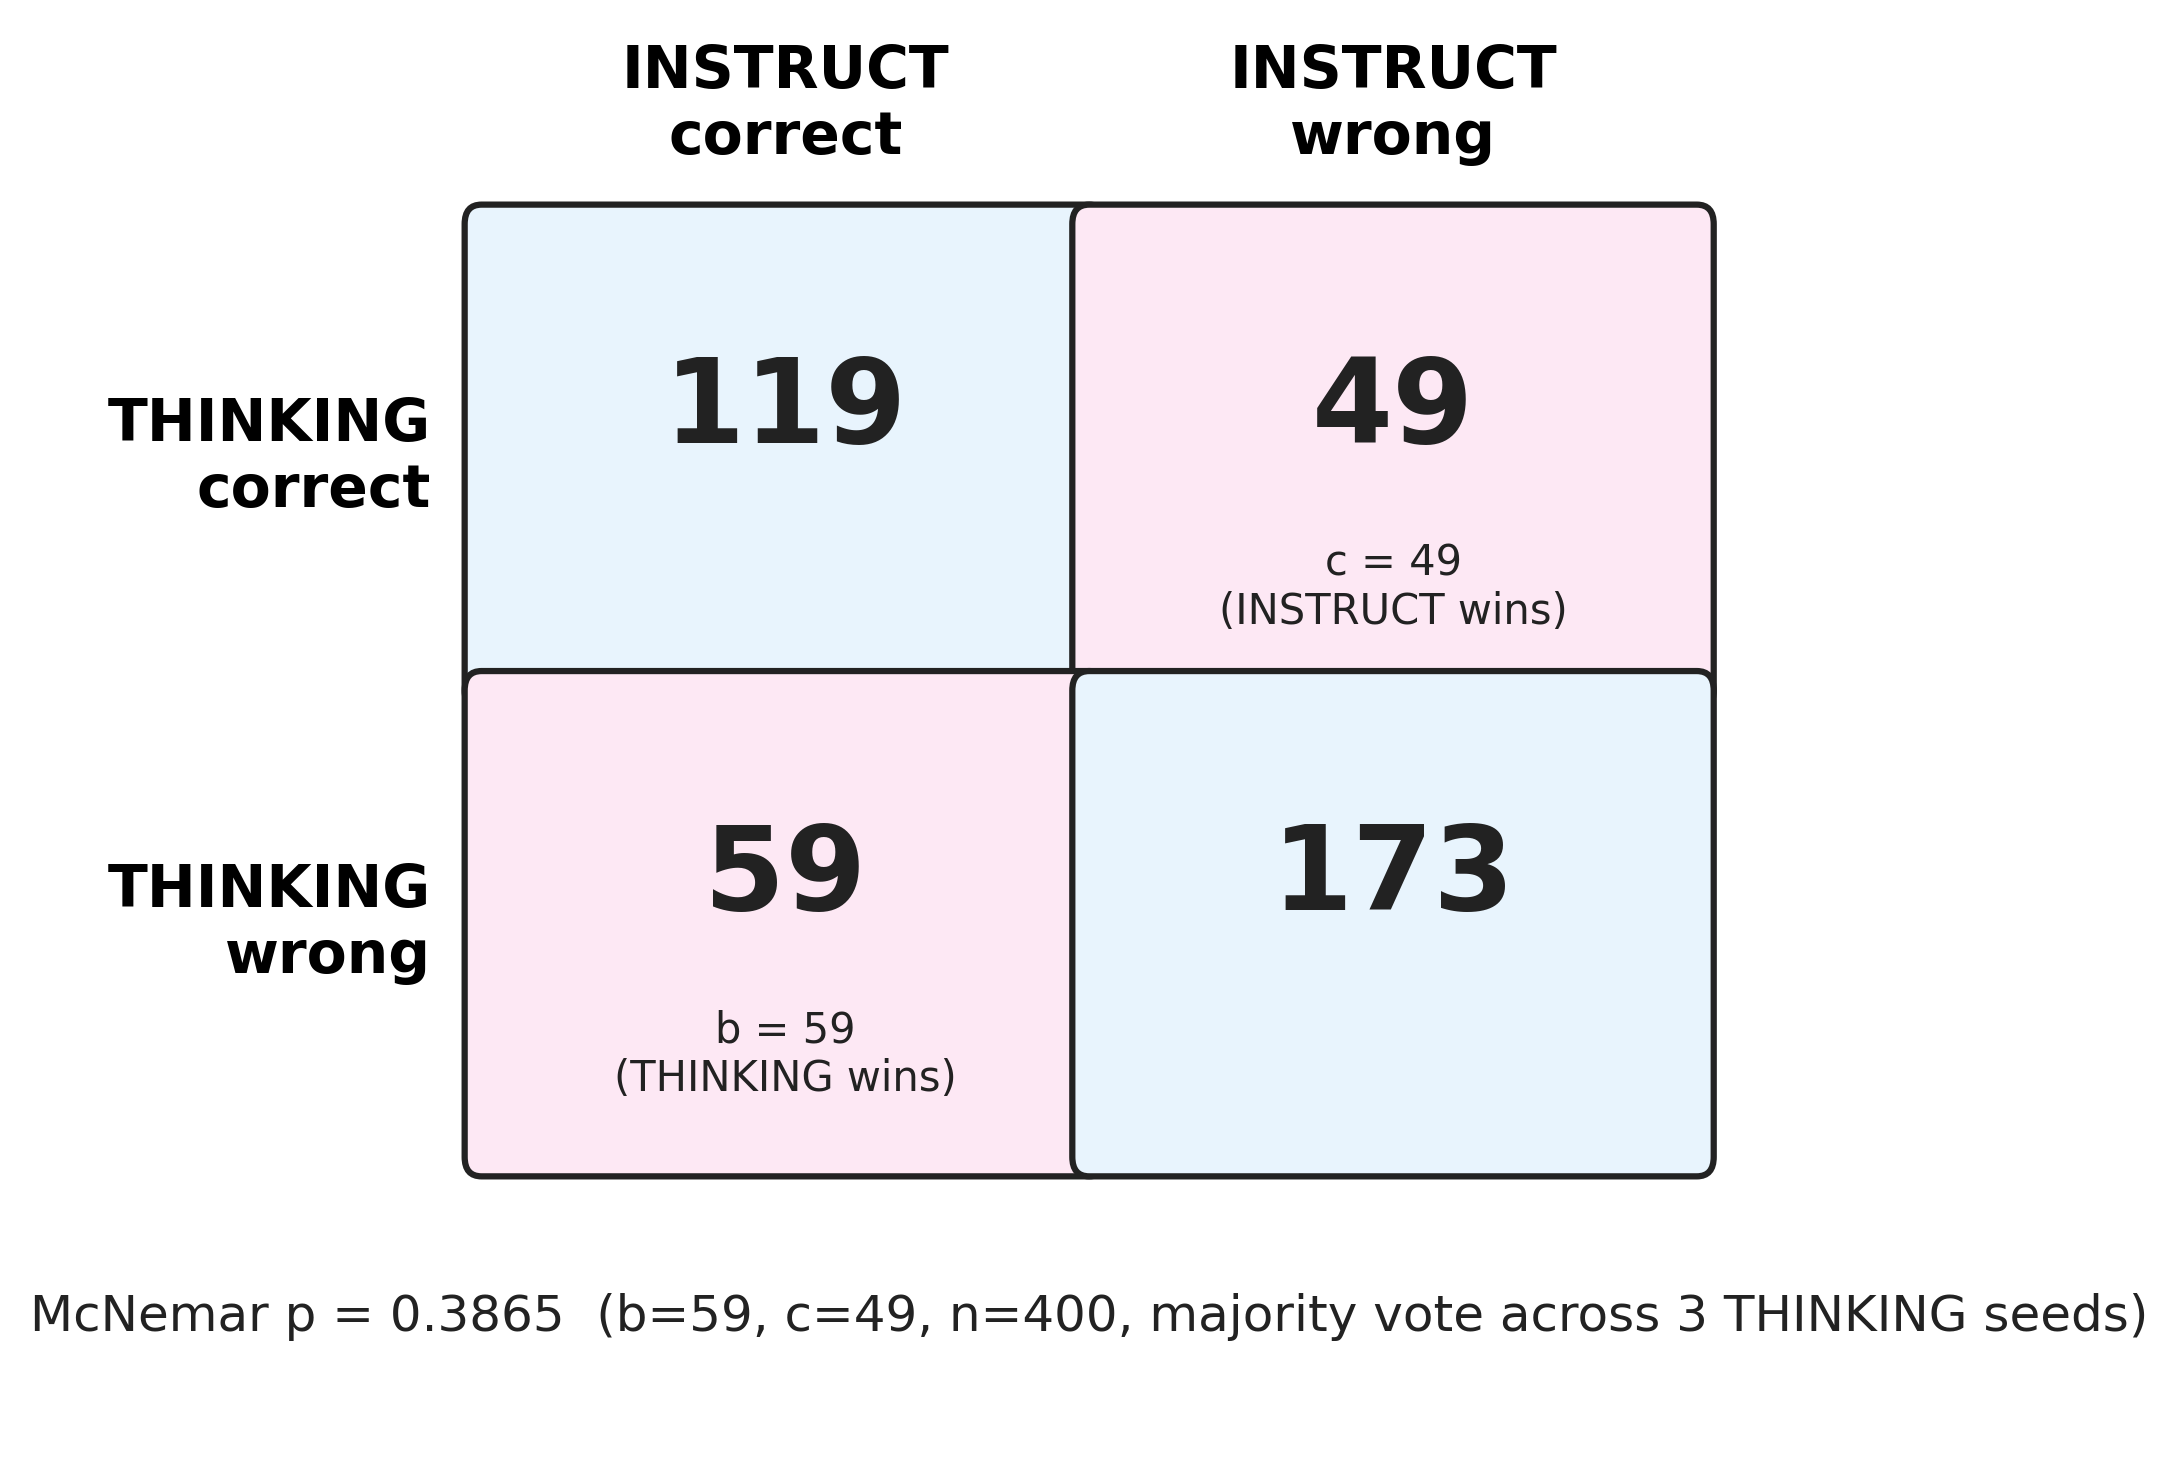
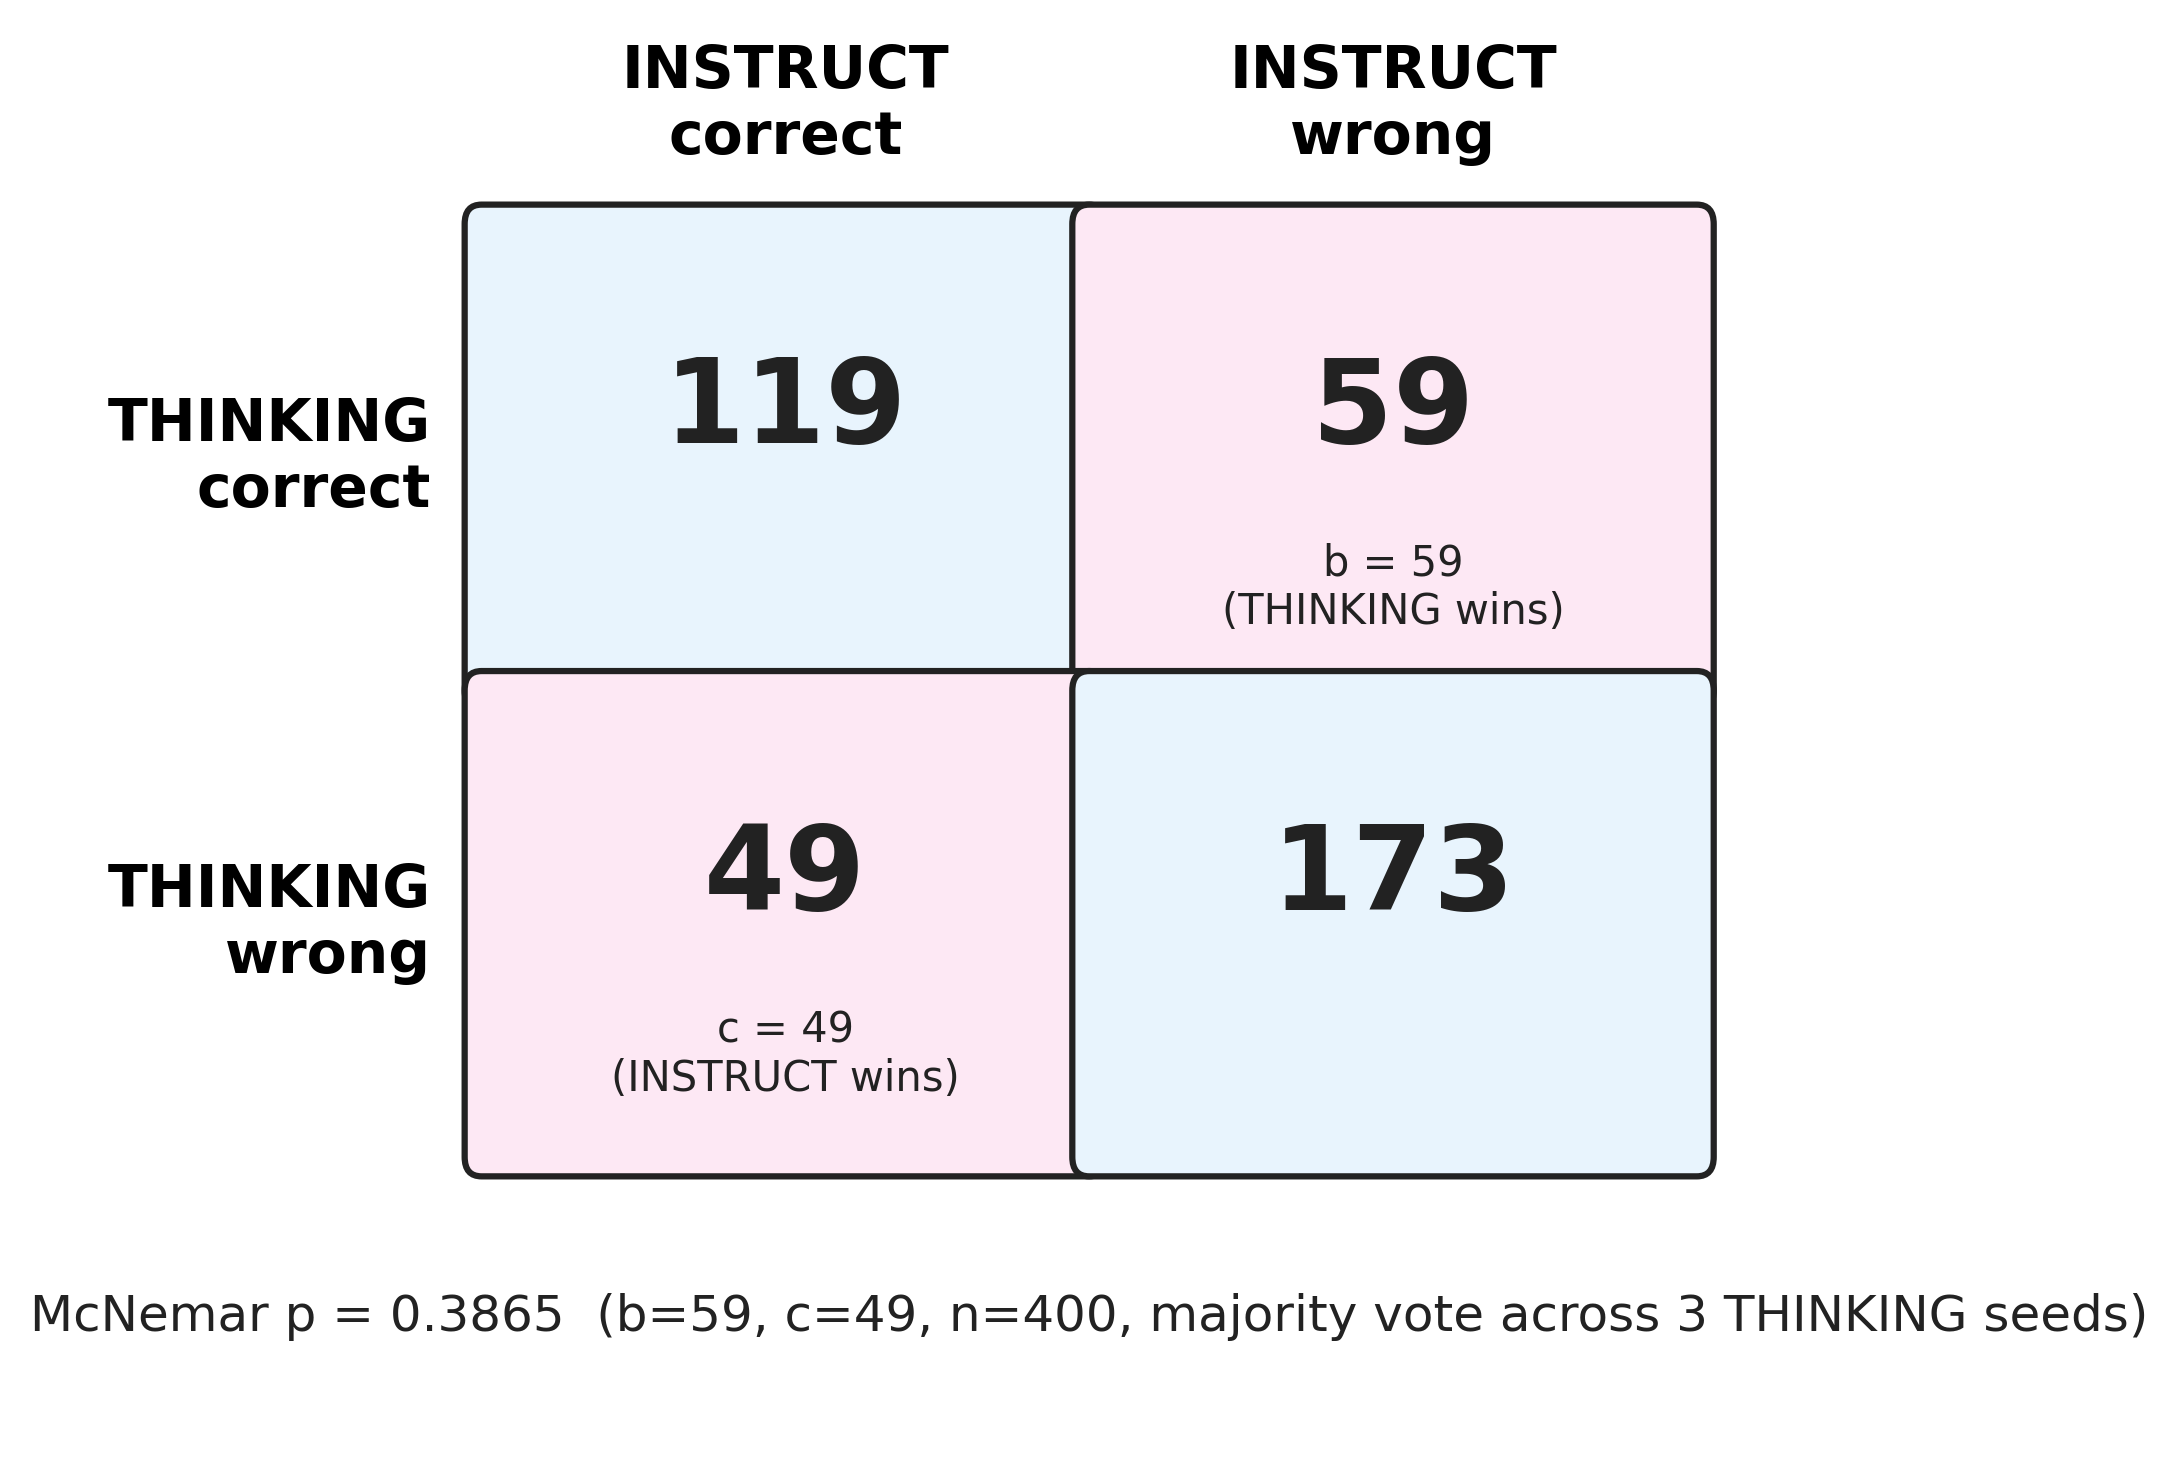
updated plots

diff --git a/experiments/figures/make_advisor_plots.py b/experiments/figures/make_advisor_plots.py
@@ -404,9 +404,13 @@ def plot_D():
     ax.axis("off")
 
     cells = [
-        [a, c],
-        [b, d],
+        [a, b],
+        [c, d],
     ]
+    assert cells[0][0] == a and cells[1][1] == d
+    assert cells[0][1] == b, "top-right must be THINKING-correct / INSTRUCT-wrong"
+    assert cells[1][0] == c, "bottom-left must be THINKING-wrong / INSTRUCT-correct"
+
     col_labels = ["INSTRUCT\ncorrect", "INSTRUCT\nwrong"]
     row_labels = ["THINKING\ncorrect", "THINKING\nwrong"]
 
@@ -433,9 +437,9 @@ def plot_D():
                     color=C["dark"])
             label = ""
             if ri == 0 and ci == 1:
-                label = f"c = {count}\n(INSTRUCT wins)"
-            elif ri == 1 and ci == 0:
                 label = f"b = {count}\n(THINKING wins)"
+            elif ri == 1 and ci == 0:
+                label = f"c = {count}\n(INSTRUCT wins)"
             if label:
                 ax.text(x + CELL_W / 2, y + CELL_H * 0.22, label,
                         ha="center", va="center", fontsize=10, color=C["dark"])

diff --git a/reports/advisor_plots_manifest.md b/reports/advisor_plots_manifest.md
@@ -135,21 +135,25 @@ SPARSE arm = 16 frames uniform over [0, question_time], greedy decode, no reason
 
 **Change (Fix 5):** All four cells now recomputed directly from `results/erqa/study_k/study_k_trials.jsonl` using the same majority-vote aggregation as the study analysis. Previously a and d were derived from `round(400 × mean_acc_pct)` which introduced rounding error.
 
+**Change (Fix 7 — grid placement bug):** Previous rendering placed b and c in swapped cells relative to the row/column headers, inverting the direction of the result. The figure read as INSTRUCT winning 59 and THINKING winning 49 — the reverse of the actual result. Root cause: `cells = [[a, c], [b, d]]` placed c at row 0 / col 1 (THINKING correct / INSTRUCT wrong) and b at row 1 / col 0 (THINKING wrong / INSTRUCT correct), backwards. Fixed to `cells = [[a, b], [c, d]]` with annotations corrected accordingly. The counts a=119, b=59, c=49, d=173 and the McNemar p-value were unaffected; only the grid placement was wrong.
+
 **Source file:** `results/erqa/study_k/study_k_trials.jsonl` (4,400 rows; INSTRUCT=400, THINKING=1,200 across 3 seeds)
 
 **Aggregation:** THINKING arm = majority vote across 3 seeds (42, 123, 456) per question_id. INSTRUCT = single run.
 
 **Recomputed 2×2 table (from trials, not from rounded rates):**
 
-| cell | derivation | value |
-|------|-----------|-------|
-| b (THINKING correct, INSTRUCT wrong) | direct count from trials | **59** |
-| c (INSTRUCT correct, THINKING wrong) | direct count from trials | **49** |
-| a (both correct) | direct count from trials | **119** |
-| d (both wrong) | direct count from trials | **173** |
+| cell | grid position | derivation | value |
+|------|-------------|-----------|-------|
+| a (both correct) | top-left | direct count from trials | **119** |
+| b (THINKING correct, INSTRUCT wrong) | top-right | direct count from trials | **59** |
+| c (INSTRUCT correct, THINKING wrong) | bottom-left | direct count from trials | **49** |
+| d (both wrong) | bottom-right | direct count from trials | **173** |
+
+**Verified placements (Fix 7):** 119 top-left (no label), 59 top-right labelled "THINKING wins", 49 bottom-left labelled "INSTRUCT wins", 173 bottom-right (no label). Assertions added to `plot_D()` to prevent recurrence.
 
 **Sanity check:** b=59 matches `gate_overall.b=59`. c=49 matches `gate_overall.c=49`. ✓  
-Previous derived values were a=121, d=171 (rounding error of 2). Corrected to a=119, d=173. Total still 400. ✓
+Previous derived values were a=121, d=171 (rounding error of 2, Fix 5). Corrected to a=119, d=173. Total still 400. ✓
 
 **Underlying numbers:** n=400, a=119, b=59, c=49, d=173, McNemar p=0.3865, diff=+2.5pp, 95% CI [−4.2, +9.2]. Pre-registered verdict: FAILS.
 
